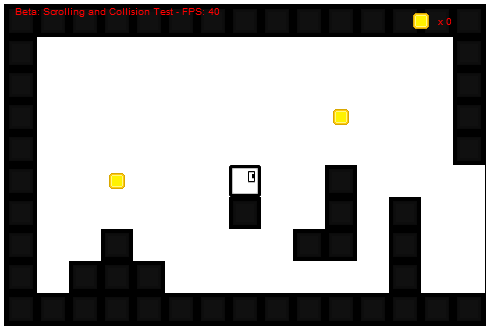
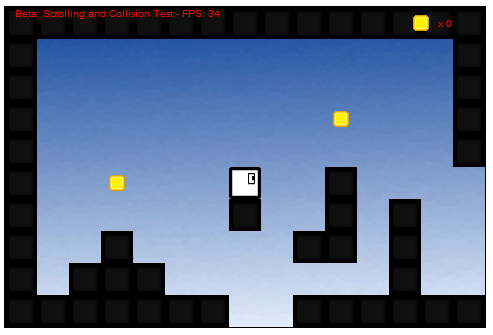
Updated Block Game v0.24
Added. Backgrounds, coins, height levels, new enemy sprites.

diff --git a/Block Run/blockRun.js b/Block Run/blockRun.js
@@ -1,30 +1,45 @@
 var map = [
    '#################################################################################',
    '#             #                   # o           o #                             #',
-   '#             # o                 #####       #####        ####                 #',
-   '#         o   #                                                                 #',
-   '#             #####   ##                  #             ##########              #',
-   '#  o      #                              ###                                    #',
-   '#      #  # #             ######        #####               o            o o    #',
-   '#  #     ## #            ## o  #       #######         ############      o o    #',
-   '# ###       #     #     ### o         #########                                 #',
-   '#################################################################################'   
+   '#             # o                 #####   o   #####        ####                 #',
+   '#         o   #                           #                                     #',
+   '#             #####   ##                 ###            ##########              #',
+   '#  o      #                             #####                                   #',
+   '#      #  # #             ######       ## o ##              o            o o    #',
+   '#  #     ## #            ## o  #      ###   ###        ############      o o    #',
+   '# ###       #     #     ### o        ####   ####                                #',
+   '#######  ################################# ##################################   #',
+   '#                                                                               #',
+   '#      #                    o             o##o                              #####',
+   '#      ##                                ######                            #    #',
+   '#    #####       oo                     #      #       o       o          #     #',
+   '#o     ####o             o     o       #        #                        #      #',
+   '###    #####     ##     ##     ##     #   o   o  #     ##     ####      #       #',
+   '#   o  ####      ##     ##     ##                                 #    #        #',
+   '#      ####o  o  ##  o  ##     ##                               o  #  #         #',   
+   '#################################################################################',
 ];
 
-var delay = 25;
+var delay = 28;
 var items = [];
 var player;
+var yLevel = 0;
+var yLevelMax = 288;
 
 var lastLoop = new Date;
 
-LEFT = RIGHT = UP = DOWN = false;
+LEFT = RIGHT = UP = DOWN = SHIFT = false;
 
-GRAVITY = 0.5;
+GRAVITY = 0.25;
 COINS = 0;
+HEARTS = 1
 
-var groundPoint = { x: 0, y: 0 , color: 'red', height: 4, width: 30};
+var groundPoint = { x: 0, y: 0 , color: 'red', height: 4, width: 28};
 
-var scroll = 0;
+var scrollX = 0;
+var scrollY = 0;
+
+var camY = 0;
 /*
 How timeframes work: For animations via frame-by-frame
 
@@ -45,7 +60,9 @@ function Player() {
    this.y = (canvas.height/2) - (this.size/2);
    this.dx = 0; this.dy = 0;
    this.ddx = 0; this.ddy = 0;
+   this.walk = 7; this.run = 10;
    this.speed = 7;
+   this.jumpPower = 10;
    this.frameX = 0; // X frame on tilemap sprite
    this.frameY = 0; // Y frame on tilemap sprite
    this.image = images['player_blink'];
@@ -73,7 +90,7 @@ function Player() {
       }
       
       if(UP && this.jump){ 
-         this.dy = -this.speed*3; 
+         this.dy = -this.jumpPower; 
          this.ddy = -1;
          this.jump = false;
       }
@@ -89,19 +106,24 @@ function Player() {
          if(this.dy < 0 && collide(this,items[item]) && isItem(items[item],'block')) {
             this.dy = 0;
             this.ddy = 0;
+            var oldY = this.y;
             this.y = items[item].y + this.size;
+            var diff = oldY - this.y
          }
-         if(this.dy > 0 && collide(this,items[item]) && isItem(items[item],'block')) {
+         else if(this.dy > 0 && collide(this,items[item]) && isItem(items[item],'block')) {
             this.dy = 0;
             this.ddy = 0;
+            var oldY = this.y;
             this.y = items[item].y - this.size;
+            var diff = oldY - this.y
             this.jump = true;
          }
       }
-      
-      if(this.dy > 15) this.dy = 15;          //Speed limits
+
+      if(this.dy > 12) this.dy = 12;          //Speed limits
       if(this.dy < -15) this.dy = -15;
- 
+      if(SHIFT) this.speed = this.run;
+      else this.speed = this.walk;
       if(LEFT){ 
          this.dx = this.speed; // Move Left
          this.frameY = 1; // Face Left
@@ -113,7 +135,7 @@ function Player() {
       if(!LEFT && !RIGHT) this.dx = 0; // If no arrow keys no move hor.
       
       player.x -= this.dx;
-      scroll += this.dx;
+      scrollX += this.dx;
       ctx.translate(this.dx, 0);
       
       for(item in items) {
@@ -123,14 +145,14 @@ function Player() {
             this.x = items[item].x - this.size;
             var diff = oldX - this.x
             ctx.translate(diff, 0);
-            scroll += diff;
+            scrollX += diff;
          }
          else if(LEFT && collide(this,items[item]) && isItem(items[item],'block')) {
             var oldX = this.x;
             this.x = items[item].x + this.size;
             var diff = oldX - this.x
             ctx.translate(diff, 0);
-            scroll += diff;
+            scrollX += diff;
          }
          if(collide(this,items[item]) && isItem(items[item],'coin')) {
             items.splice(item, 1);
@@ -142,7 +164,7 @@ function Player() {
       groundPoint.y = this.y + this.size + 1;
    
       for(item in items) 
-         if(collide(groundPoint, items[item]) && isItem(items[item],'block')) { 
+         if(collide(groundPoint, items[item]) && isItem(items[item],'block') && this.dy >= 0) { 
             this.jump = true; break;
          } else { this.jump = false; }
    }
@@ -161,12 +183,12 @@ function Block(x, y) {
 
 function Coin(x, y) {
    this.timer = 0;
-   this.x = x ;
-   this.y = y ;
+   this.x = x + 9;
+   this.y = y + 9;
    this.image = images["coin"];
    this.frameX = 0;
    this.step = 0;
-   this.width = 10; this.height = 10;
+   this.width = 14; this.height = 14;
    
    this.draw = function() {
       this.timer++;
@@ -180,7 +202,7 @@ function Coin(x, y) {
             this.timer = 0;
          }
       }
-      ctx.drawImage(this.image, this.frameX*32, 0, 32, 32, this.x, this.y, 32, 32);
+      ctx.drawImage(this.image, this.frameX*32, 0, 32, 32, this.x - 9, this.y - 9, 32, 32);
    }
 }
 
@@ -189,11 +211,13 @@ function loadImages()
    var playerBlink = new Image(); playerBlink.src = "player_blink.png";
    var Block = new Image(); Block.src = "block.png";
    var Coin = new Image(); Coin.src = "coin.png"
+   var Background = new Image(); Background.src = "clouds.jpg";
    
    images = {
       player_blink: playerBlink,
       block: Block,
-      coin: Coin
+      coin: Coin,
+      background: Background
    }
    
    return images;
@@ -231,18 +255,35 @@ document.addEventListener("keydown", function(e) {
     if( e.keyCode == 38 ) UP = true;
     if( e.keyCode == 39 ) RIGHT = true;
     if( e.keyCode == 40 ) DOWN = true;
+    if( e.keyCode == 16 ) SHIFT = true;
 });
                           
 document.addEventListener("keyup", function(e) { 
     if( e.keyCode == 37 ) LEFT = false;
     if( e.keyCode == 38 ) UP = false;
     if( e.keyCode == 39 ) RIGHT = false;
-    if( e.keyCode == 40 ) DOWN = false;    
+    if( e.keyCode == 40 ) DOWN = false;  
+    if( e.keyCode == 16 ) SHIFT = false;    
 });
 
 // Check on what an item is based on it's image.
 function isItem(check, item) {
    return check.image == images[item];
+}
+
+function handleYscroll() {
+   if(player.y > 288 && yLevel == 0){
+      scrollY+= yLevelMax;
+      ctx.translate(0, -yLevelMax);
+      yLevel = 1;
+      images["background"].src = "ground.jpg";
+   }
+   if(player.y <= 288 && yLevel == 1){
+      scrollY-= yLevelMax;
+      ctx.translate(0, yLevelMax);
+      yLevel = 0;
+      images["background"].src = "clouds.jpg";
+   }   
 }
 
 var canvas = document.getElementById("canvas");
@@ -256,14 +297,15 @@ timer = setInterval(function()
    var thisLoop = new Date;
    var fps = Math.round(1000 / (thisLoop - lastLoop));
    lastLoop = thisLoop;
-   ctx.clearRect(-scroll, 0, canvas.width, canvas.height);
+   ctx.drawImage(images["background"],-scrollX, scrollY);
    ctx.fillStyle = player.color;
    player.update();
    player.draw();
+   handleYscroll();
    for(item in items)
       items[item].draw();
-      ctx.fillStyle = "red";
-      ctx.fillText("Beta: Scrolling and Collision Test - FPS: "+fps, 10-scroll, 10);
-      ctx.drawImage(images['coin'], 0, 0, 32, 32, 400-scroll, 0, 32, 32);
-      ctx.fillText(" x "+COINS, 430-scroll,20);
+   ctx.fillStyle = "red";
+   ctx.fillText("Beta: Scrolling and Collision Test - FPS: "+fps, 10-scrollX, 10+scrollY);
+   ctx.drawImage(images['coin'], 0, 0, 32, 32, 400-scrollX, 0+scrollY, 32, 32);
+   ctx.fillText(" x "+COINS, 430-scrollX,20+scrollY);
 }, delay);
